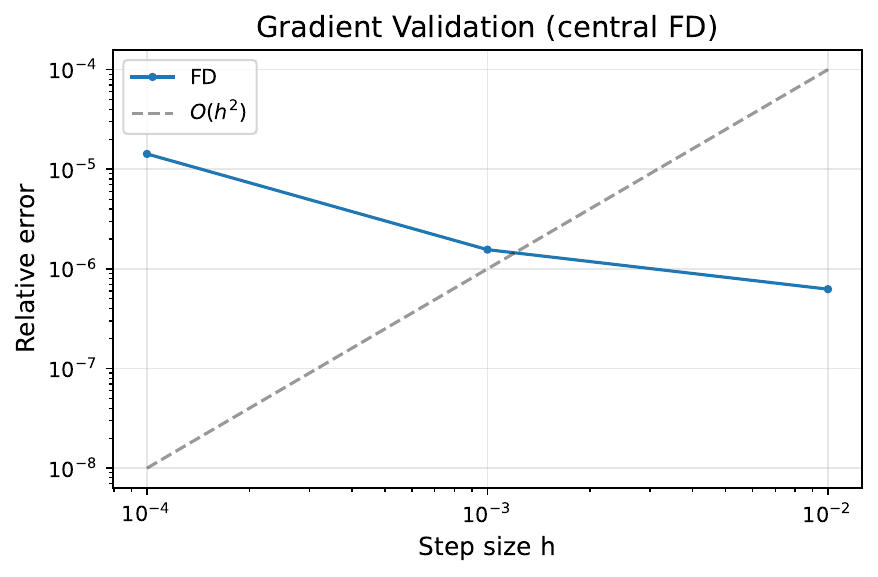
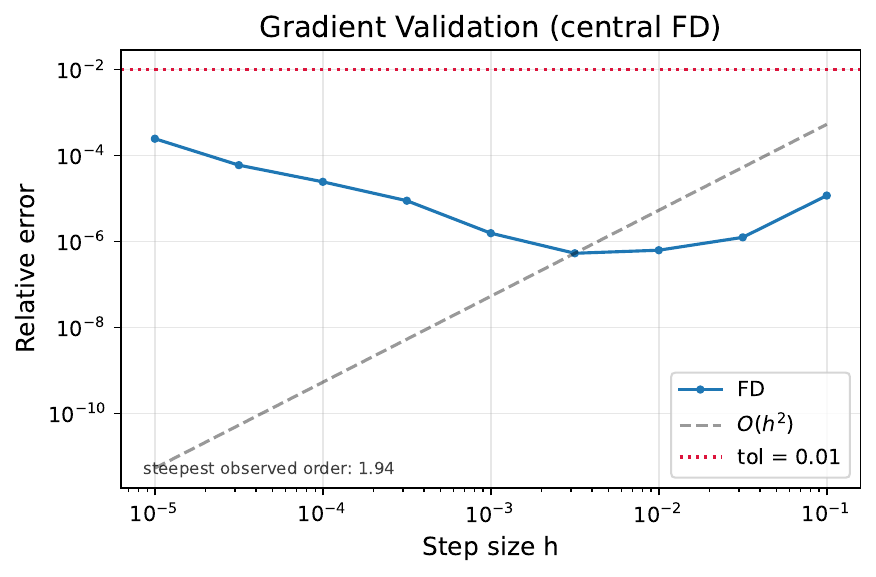
fix(validate-gradient): sample both error branches, report observed order
The run's inline check swept only h = 1e-4..1e-2. On the 0.03 um mesh that
window lies entirely on the cancellation branch, where evaluation noise
divided by the step dominates, so the figure showed error falling with
increasing h and no second-order slope anywhere -- and the docs claimed an
O(h^2) slope the plotted curve did not support.

Widened to 1e-5..1e-1 (nine steps; the standalone command likewise) so the
V is inside the plot: truncation above the minimum, noise floor below it.
The figure now annotates the steepest measured log-log slope instead of
inviting comparison against a guide line drawn with an arbitrary constant,
and that guide is anchored to the curve's best point. Measured on the
headline geometry: order 1.94, best agreement 5.3e-7 at h = 3e-3, against
a 1e-2 gate.

validate-gradient also gains --mesh-size, without which it could only ever
check the container default mesh and not the geometry a run actually used.

diff --git a/app/prismo/outputs.py b/app/prismo/outputs.py
@@ -13,6 +13,7 @@ against reverse bias.
 from __future__ import annotations
 
 import json
+import math
 from collections.abc import Callable, Sequence
 from dataclasses import dataclass
 from pathlib import Path
@@ -1261,6 +1262,45 @@ def _gradient_validation_curves(
     return curves
 
 
+def _observed_orders(
+    feasible_steps: np.ndarray, errors: list[float]
+) -> list[tuple[float, float]]:
+    """Local log-log slopes of a relative-error curve, one per adjacent pair.
+
+    Each entry is ``(h_right, slope)`` for the interval ending at ``h_right``.
+    On the truncation branch of a central difference the slope approaches +2;
+    on the cancellation branch, where the evaluation noise floor divided by the
+    step dominates, it approaches −1. Reporting the measured slope is what makes
+    the figure a convergence test rather than an eyeball comparison against a
+    guide line drawn with an arbitrary constant.
+    """
+    orders: list[tuple[float, float]] = []
+    for left in range(len(feasible_steps) - 1):
+        h0, h1 = float(feasible_steps[left]), float(feasible_steps[left + 1])
+        e0, e1 = errors[left], errors[left + 1]
+        if h0 <= 0.0 or h1 <= 0.0 or e0 <= 0.0 or e1 <= 0.0:
+            continue
+        orders.append((h1, math.log(e1 / e0) / math.log(h1 / h0)))
+    return orders
+
+
+def _steepest_observed_order(
+    curves: list[tuple[int, np.ndarray, list[float]]],
+) -> float | None:
+    """The largest local slope seen on any direction's curve.
+
+    The truncation branch is the steep, rising part of the V; its slope is the
+    observed order of the finite difference. ``None`` when no curve has two
+    usable points.
+    """
+    slopes = [
+        slope
+        for _, feasible_steps, errors in curves
+        for _, slope in _observed_orders(feasible_steps, errors)
+    ]
+    return max(slopes) if slopes else None
+
+
 def _render_gradient_validation(
     curves: list[tuple[int, np.ndarray, list[float]]],
     step_sizes: np.ndarray,
@@ -1269,13 +1309,37 @@ def _render_gradient_validation(
     out: Path,
 ) -> Path:
     fig, ax = plt.subplots(figsize=(6, 4))
+    anchors: list[tuple[float, float]] = []
     for i, feasible_steps, errors in curves:
         label = f"direction {i + 1}" if n_directions > 1 else "FD"
         ax.loglog(feasible_steps, errors, "o-", markersize=3, label=label)
+        best = int(np.argmin(errors))
+        anchors.append((float(feasible_steps[best]), errors[best]))
 
     # Central differences of a smooth pipeline converge at second order (see
-    # GRADIENT_VALIDATION_TOLERANCE above), so the guide line is h^2, not h.
-    ax.plot(step_sizes, step_sizes**2, "k--", alpha=0.4, label=r"$O(h^2)$")
+    # GRADIENT_VALIDATION_TOLERANCE above), so the guide line is h^2, not h. It
+    # is anchored to the best point of the first curve rather than drawn with a
+    # unit constant: only its slope carries meaning, and an arbitrary offset
+    # invites the reader to compare the wrong thing.
+    if anchors:
+        h_anchor, e_anchor = anchors[0]
+        ax.plot(
+            step_sizes,
+            e_anchor * (step_sizes / h_anchor) ** 2,
+            "k--",
+            alpha=0.4,
+            label=r"$O(h^2)$",
+        )
+    order = _steepest_observed_order(curves)
+    if order is not None:
+        ax.text(
+            0.03,
+            0.03,
+            f"steepest observed order: {order:.2f}",
+            transform=ax.transAxes,
+            fontsize=8,
+            alpha=0.75,
+        )
     if tolerance is not None:
         ax.axhline(
             tolerance, color="crimson", ls=":", lw=1.5, label=f"tol = {tolerance:g}"

diff --git a/app/prismo/main.py b/app/prismo/main.py
@@ -261,8 +261,10 @@ def validate_gradient(
     n_directions: int = typer.Option(3, help="Number of sampled θ directions"),
     n_steps: int = typer.Option(
         12,
-        help="Central-difference steps, log-spaced over 1e-4..1e-1 "
-        "(below 1e-4 the CT readout's own 1e-8 FD floor dominates)",
+        help="Central-difference steps, log-spaced over 1e-5..1e-1. The window "
+        "spans both branches on purpose: truncation error rises as h^2 at large "
+        "steps, and below ~1e-4 the evaluation noise floor divided by the step "
+        "takes over and the error rises again as 1/h",
     ),
     mesh_path: str = typer.Option(
         str(_DEFAULT_MESH), help="Path to waveguide .msh file"
@@ -281,6 +283,13 @@ def validate_gradient(
         help="Reset the ChargeTransport worker before every finite-difference "
         "evaluation so the FD reference carries no warm-start path dependence "
         "(default: warm)",
+    ),
+    mesh_size: float = typer.Option(
+        None,
+        "--mesh-size",
+        help="Silicon element size [µm]; smaller refines the shared mesh "
+        "(default: the mesh author's own, 0.04 µm in containers). Match it to "
+        "the run whose design is being checked",
     ),
     loss_weight: float = typer.Option(
         0.0,
@@ -311,7 +320,7 @@ def validate_gradient(
     # solves per pipeline evaluation), so restrict the sweep to the band where
     # central differences actually resolve the gradient before the CT state
     # readout's internal 1e-8 finite difference sets the floor.
-    step_sizes = np.logspace(-4, -1, n_steps)
+    step_sizes = np.logspace(-5, -1, n_steps)
     _check_geometry_knobs(seed, contact_offset, domain_width)
 
     components: PipelineComponents | None = None
@@ -319,12 +328,15 @@ def validate_gradient(
         typer.echo("Starting tesseract Docker containers...")
         components = init_tesseract_containers(
             mesh_dir=Path(mesh_path).parent,
+            mesh_size=mesh_size,
             contact_offset=contact_offset,
             domain_width=domain_width,
         )
     else:
         components = _in_process_components(
-            contact_offset=contact_offset, domain_width=domain_width
+            mesh_size=mesh_size,
+            contact_offset=contact_offset,
+            domain_width=domain_width,
         )
 
     try:
@@ -1209,7 +1221,12 @@ def _run_pipeline(
         pipeline_fn=bound_pipeline,
         ftol_rel=optimization_ftol_rel,
         gradient_validation_directions=1 if live_solvers else 3,
-        gradient_validation_steps=(np.logspace(-4, -2, 3) if live_solvers else None),
+        # Both branches of the V must be sampled for the figure to be a
+        # convergence test: truncation (rising as h^2) at large steps, and the
+        # evaluation noise floor divided by the step (falling as 1/h) at small
+        # ones. The earlier 1e-4..1e-2 window sat entirely on the noise branch
+        # on a fine mesh, so no second-order slope was visible.
+        gradient_validation_steps=(np.logspace(-5, -1, 9) if live_solvers else None),
         # Explicit on both paths: the figure's finite differences probe the
         # bound pipeline, which takes a design-node vector, while ``rho_opt``
         # above has already been scattered to full node order for plotting.

diff --git a/app/tests/test_main.py b/app/tests/test_main.py
@@ -248,7 +248,7 @@ def test_container_run_seeds_signed_junction_for_optimization(
     assert output_captured["gradient_validation_directions"] == 1
     np.testing.assert_allclose(
         output_captured["gradient_validation_steps"],
-        [1e-4, 1e-3, 1e-2],
+        np.logspace(-5, -1, 9),
     )
     np.testing.assert_allclose(
         output_captured["gradient_validation_rho"],

diff --git a/README.md b/README.md
@@ -113,9 +113,14 @@ study below give the evidence. The gradient is validated before it is trusted:
 <p align="center"><img src="docs/figures/gradient_validation.png" width="520"></p>
 
 **Composed adjoint vs central finite differences** through filter → doping →
-ChargeTransport (Julia, warm) → Soref–Bennett → gyptis: relative error
-≈ 2 × 10⁻⁷ at h = 10⁻³, following the O(h²) slope until finite-difference
-round-off takes over. (`make validate-gradient-containers`)
+ChargeTransport (Julia, warm) → Soref–Bennett → gyptis, over nine steps from
+10⁻¹ down to 10⁻⁵. Both error branches of a difference quotient are sampled,
+which is what makes the curve a convergence test rather than a single number:
+above the minimum, truncation dominates and the measured log-log slope is
+**1.94**, the second order a central difference should show; below it, the
+objective's own evaluation noise divided by the step takes over and the error
+climbs back as ~1/h. Best agreement 5.3 × 10⁻⁷ at h ≈ 3 × 10⁻³, four orders
+inside the 10⁻² gate. (`make validate-gradient-containers`)
 
 <p align="center"><img src="docs/figures/convergence.png" width="520"></p>
 

diff --git a/docs/results.md b/docs/results.md
@@ -17,9 +17,15 @@ seed comparison and the mesh study below give the evidence.
 ```
 
 Composed adjoint vs central finite differences through filter → doping →
-ChargeTransport (Julia, warm) → Soref–Bennett → gyptis: relative error
-$\approx 2\times10^{-7}$ at $h = 10^{-3}$, following the $O(h^2)$ slope until
-finite-difference round-off takes over (`make validate-gradient-containers`).
+ChargeTransport (Julia, warm) → Soref–Bennett → gyptis, over nine steps from
+$10^{-1}$ down to $10^{-5}$ (`make validate-gradient-containers`). The two
+error branches of a difference quotient are both sampled, which is what makes
+the curve a convergence test rather than a single number: above the minimum,
+truncation dominates and the measured log-log slope is **1.94**, the second
+order a central difference should show; below it, the objective's own
+evaluation noise divided by the step takes over and the error climbs back as
+$\sim 1/h$. The best agreement is $5.3\times10^{-7}$ at $h \approx 3\times10^{-3}$,
+four orders inside the $10^{-2}$ gate.
 
 ## The gradients do the work
 
